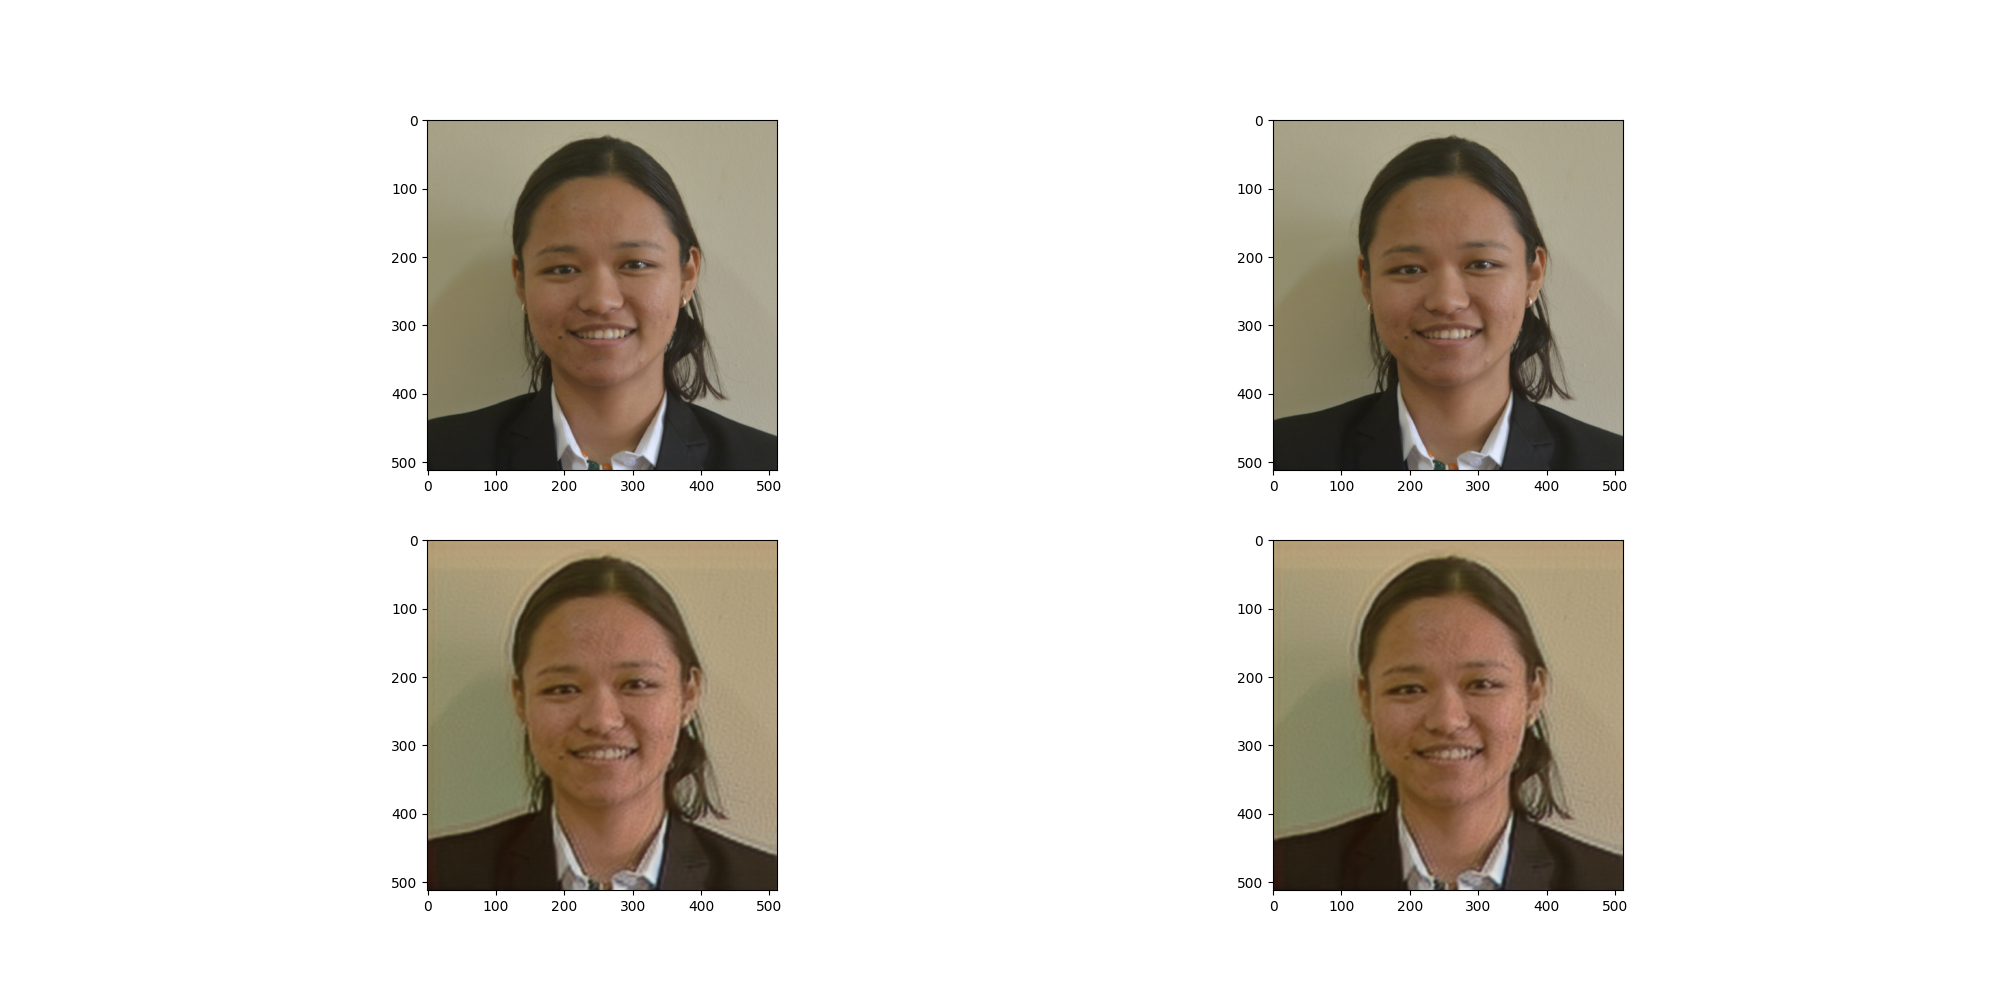
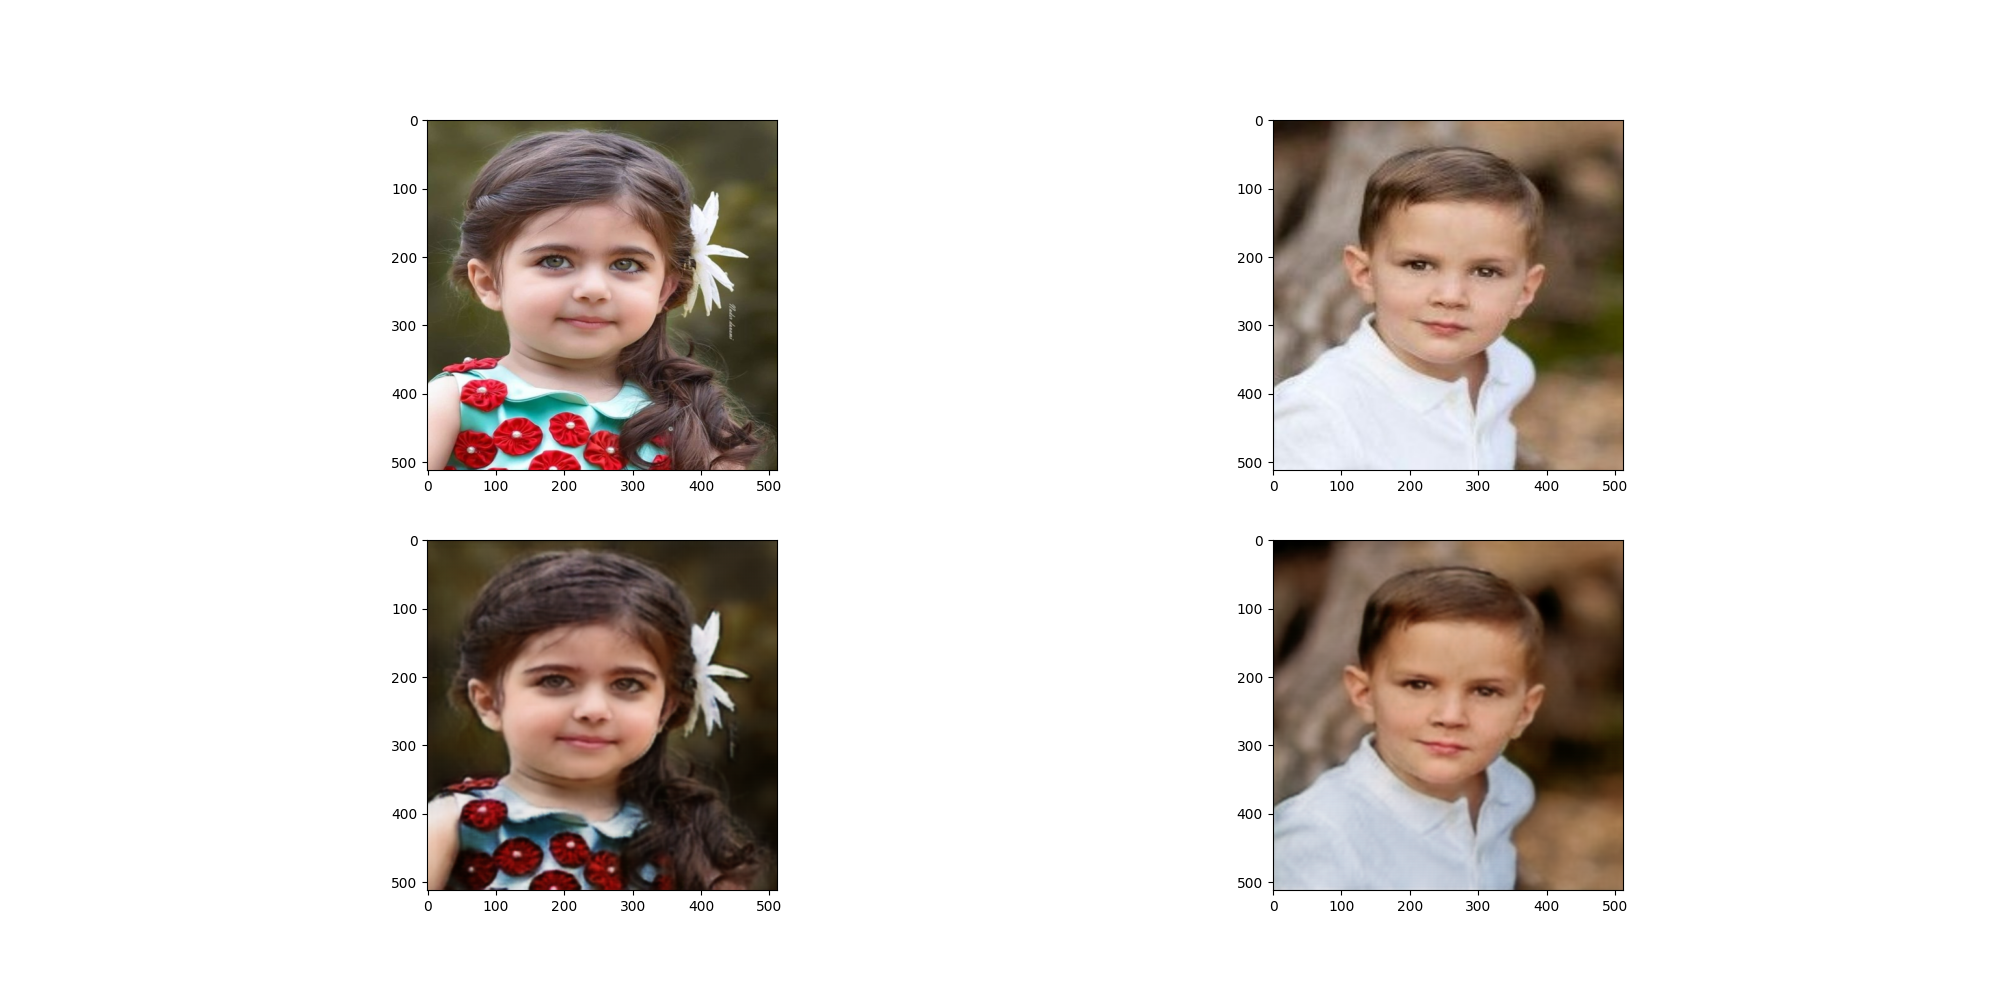
latest

diff --git a/infer.py b/infer.py
@@ -20,7 +20,7 @@ def main():
     image_paths = [os.path.join(args.image_dir, x) for x in os.listdir(args.image_dir) if
                    x.endswith('.png') or x.endswith('.jpg')]
     model = Generator(ngf=32, n_residual_blocks=9)
-    ckpt = torch.load('lightning_logs/version_0/checkpoints/epoch=0-step=4756.ckpt', map_location='cpu')
+    ckpt = torch.load('lightning_logs/version_0/checkpoints/epoch=39-step=40880.ckpt', map_location='cpu')
     # ckpt = torch.load('pretrained_model/35_net_G.pth', map_location='cpu')
     new_state_dict = {}
     for k, v in ckpt['state_dict'].items():
